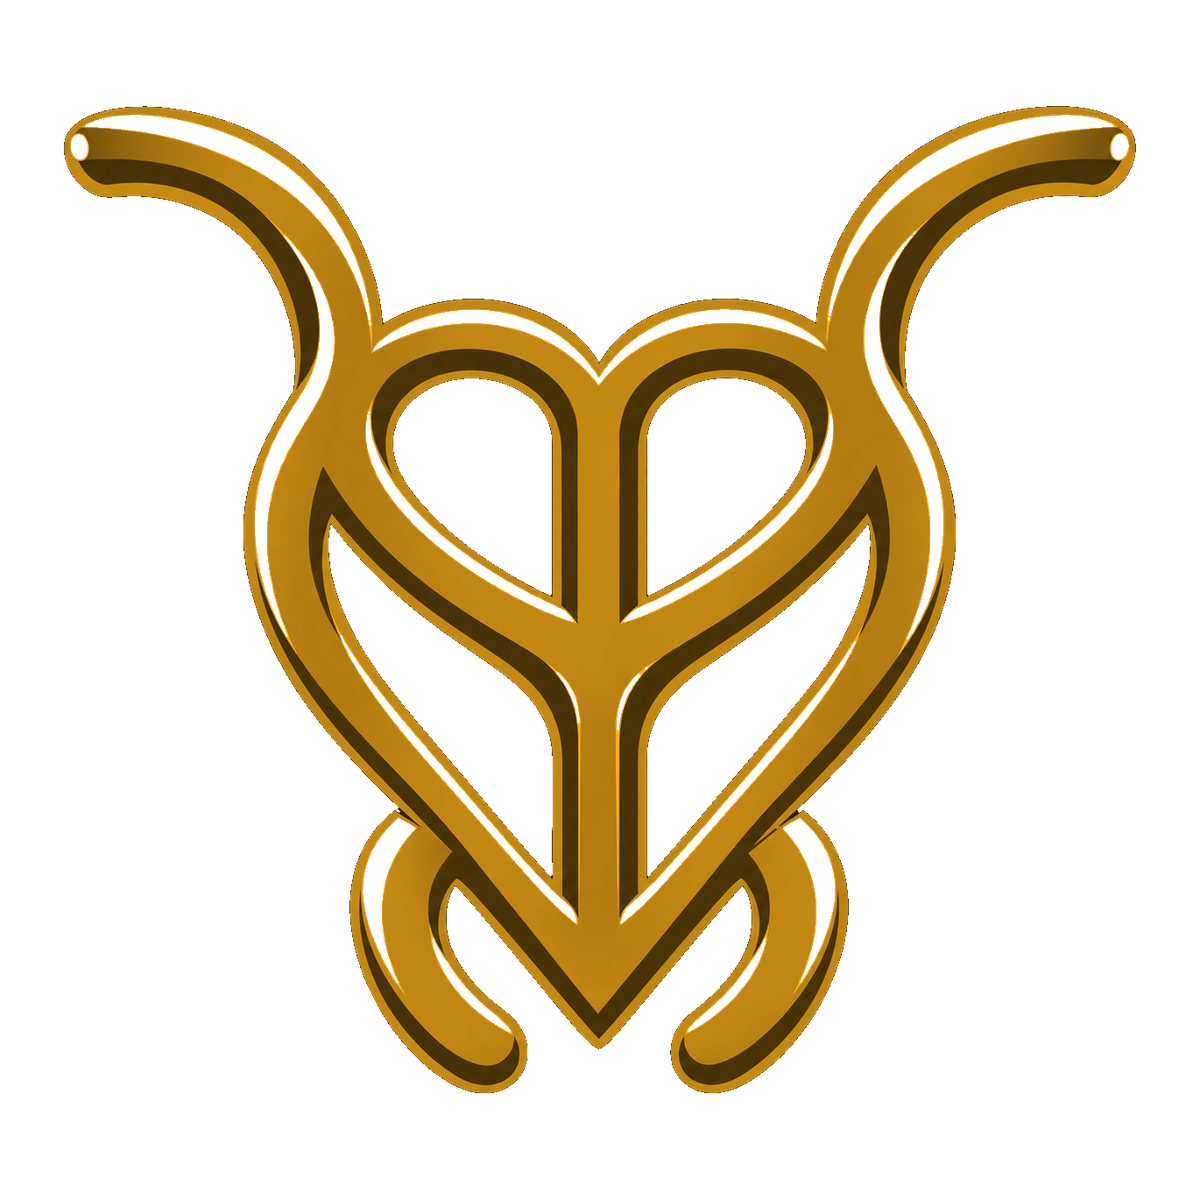
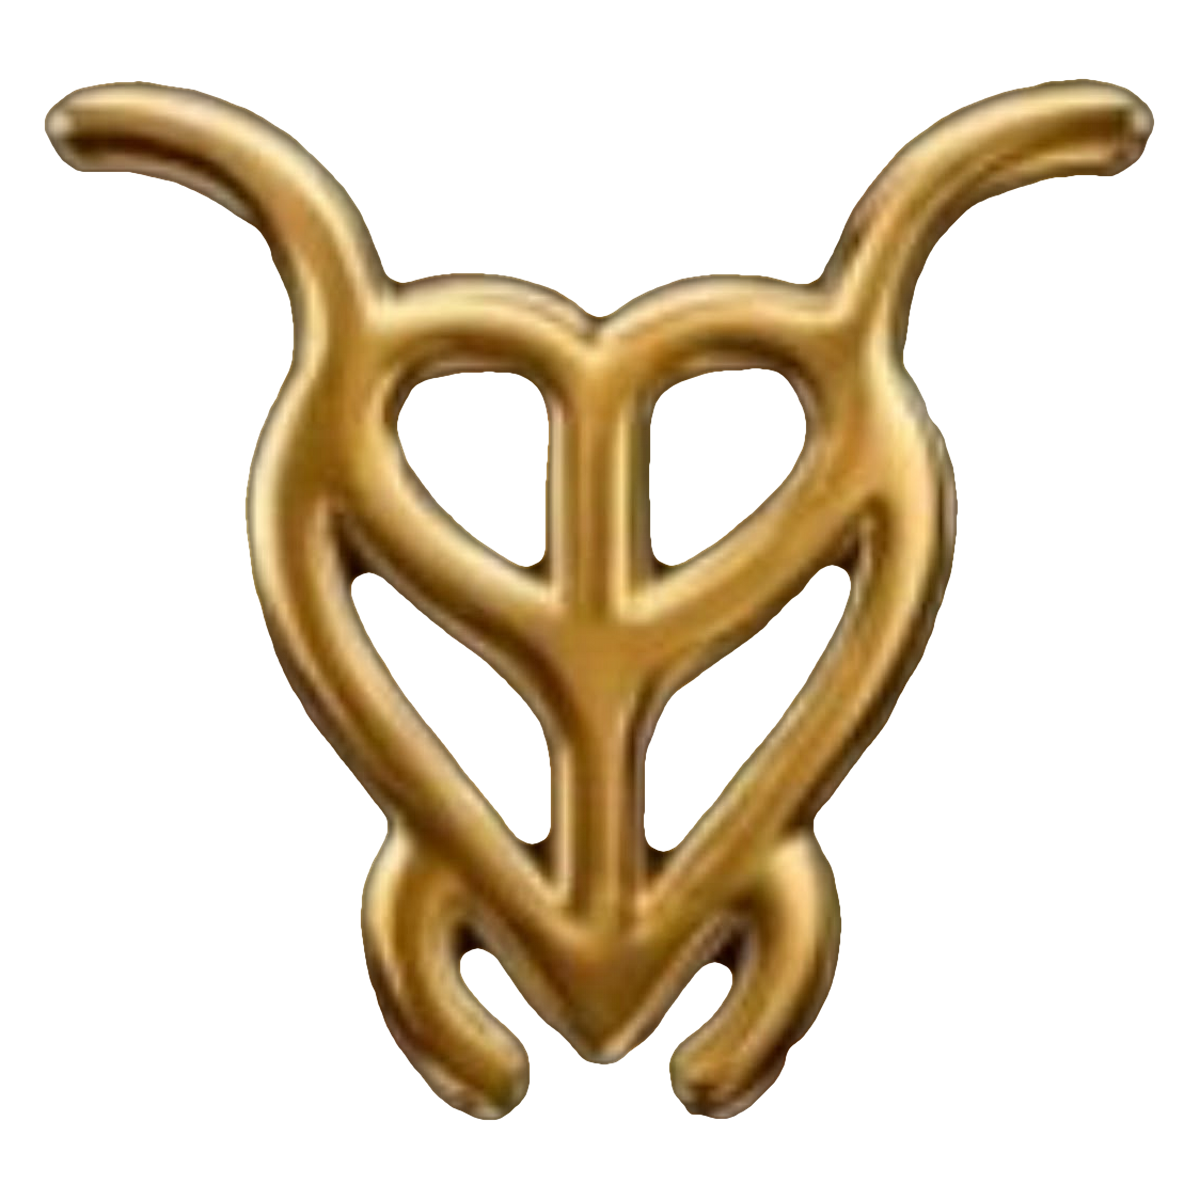
Dondolie: nouvel emblème

Changed region(s): [[0.0308, 0.0617, 0.9867, 0.9558]]

diff --git a/src/styles.css b/src/styles.css
@@ -995,6 +995,8 @@ body.nav-open::after {
   display: block;
   width: min(34rem, 100%);
   height: auto;
+  /* Emblème détouré au plus près : marge intérieure pour qu'il respire dans le cadre. */
+  padding: clamp(1.75rem, 5vw, 3.25rem);
 }
 
 .dondolie-copy {
